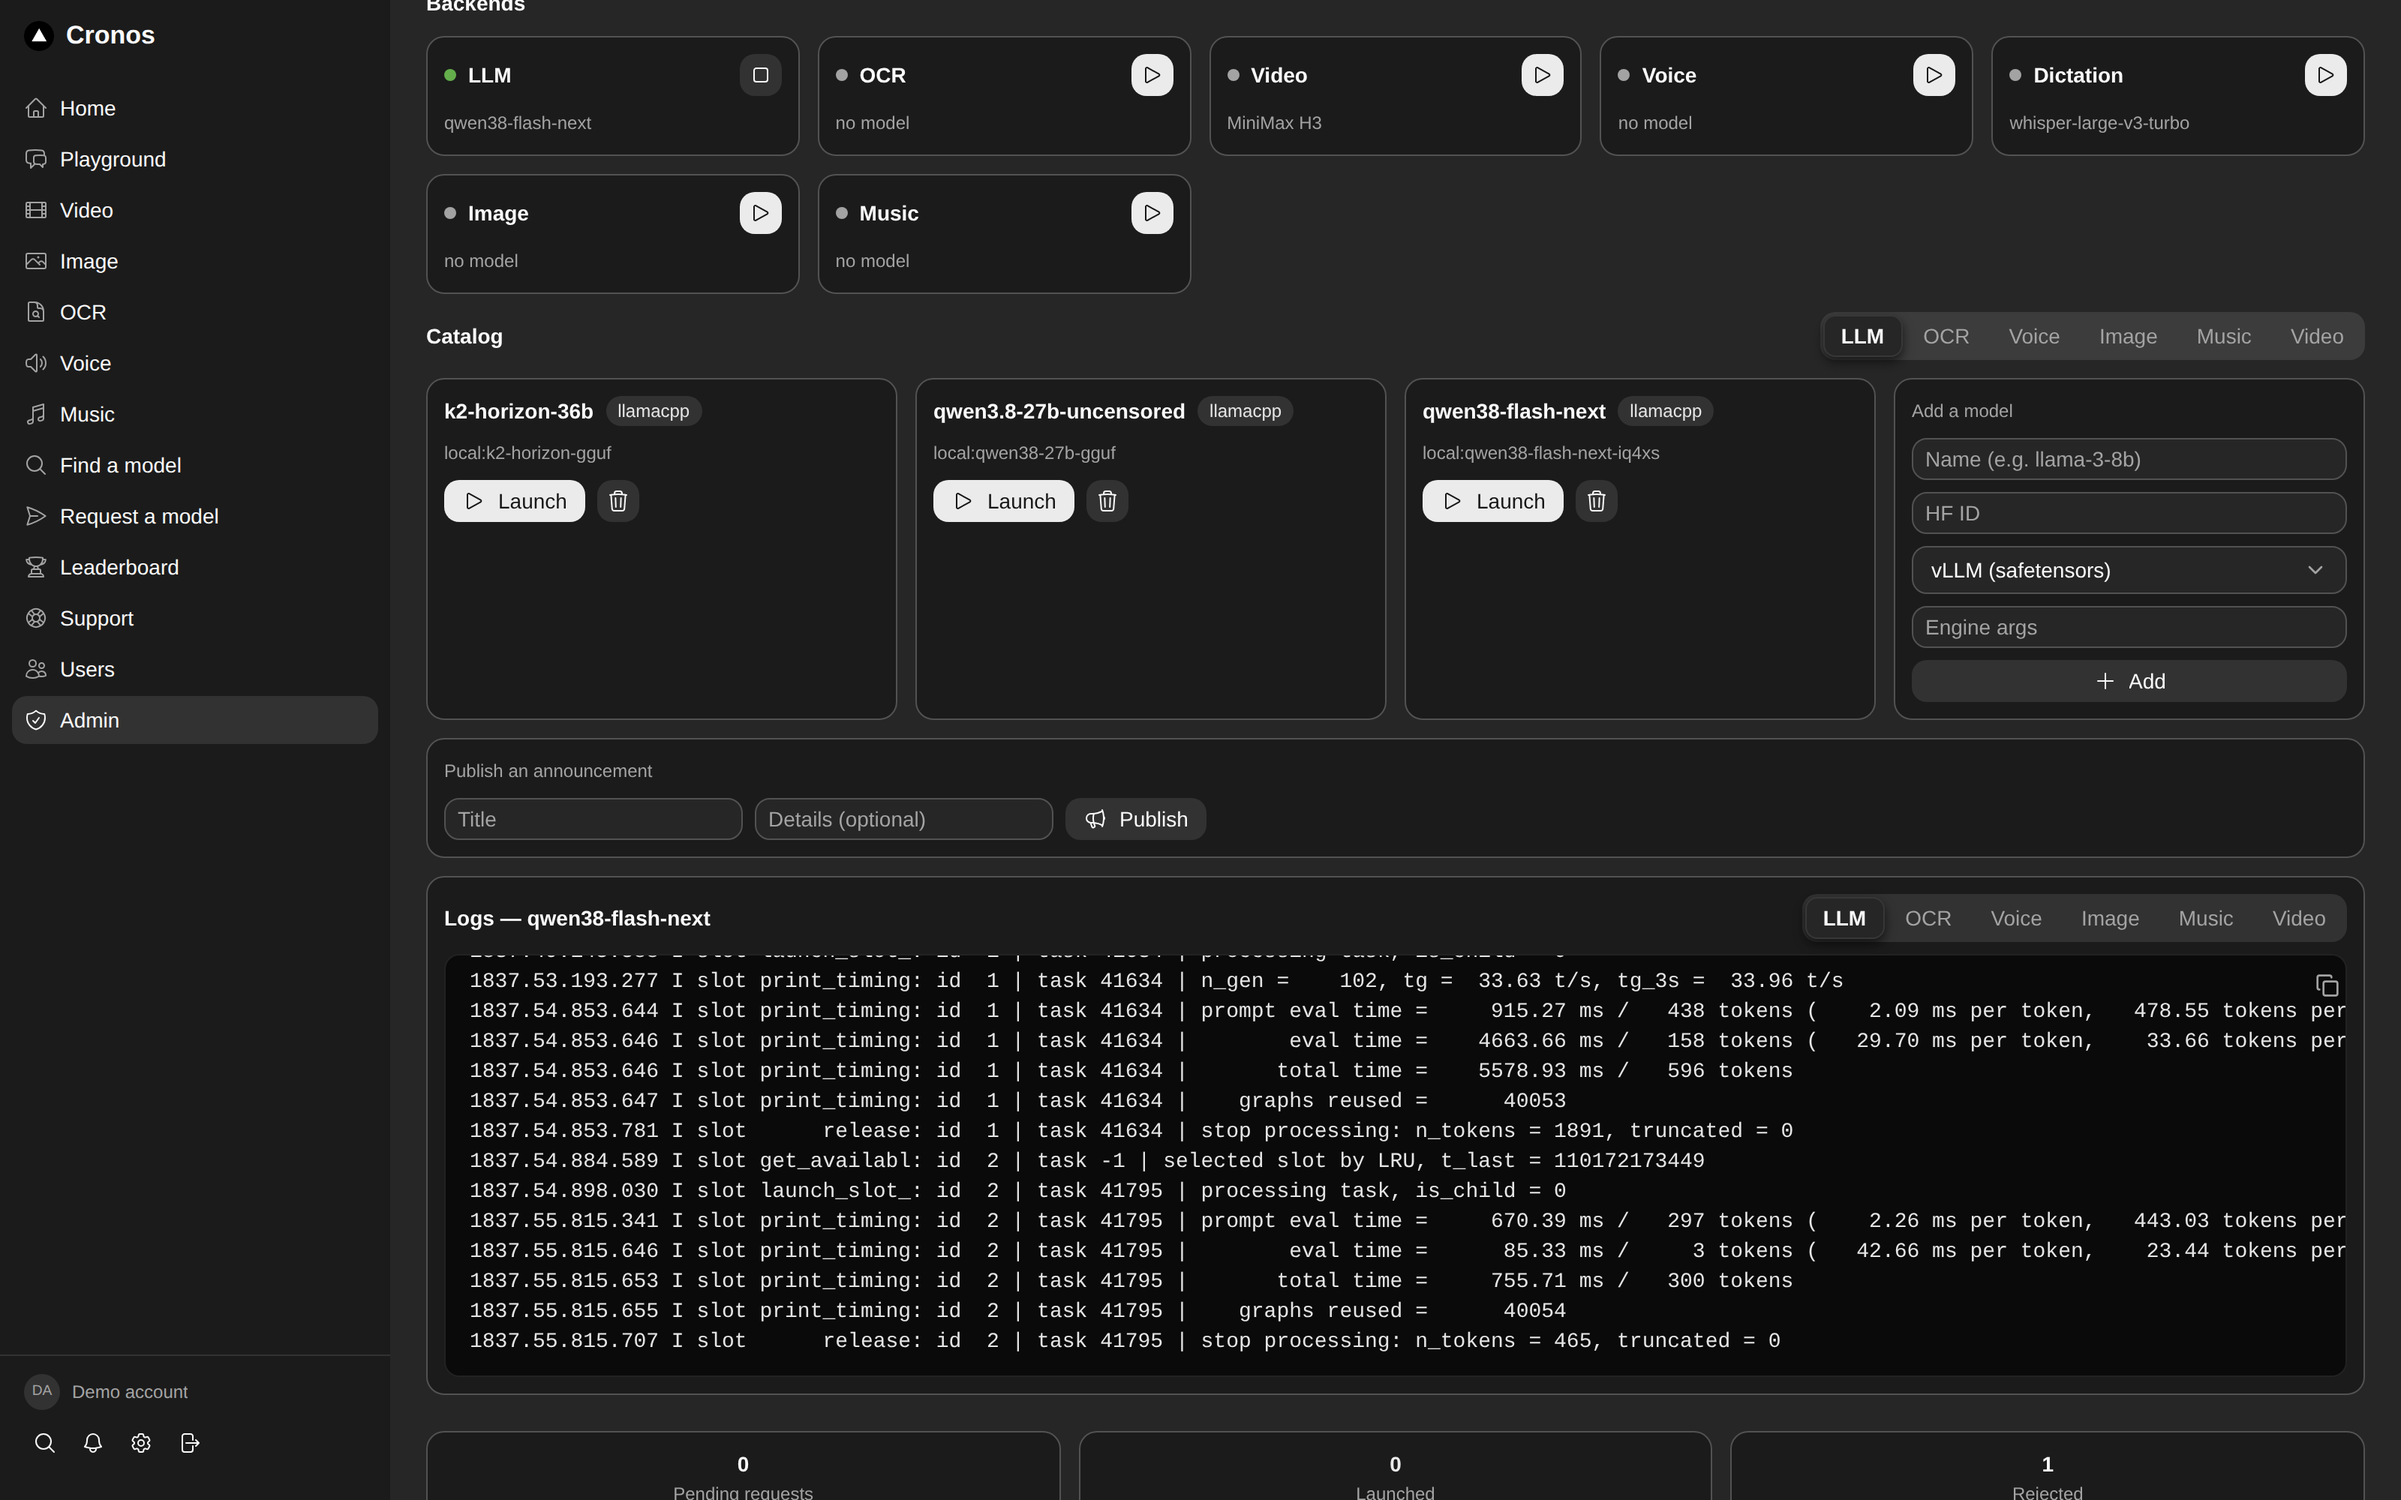
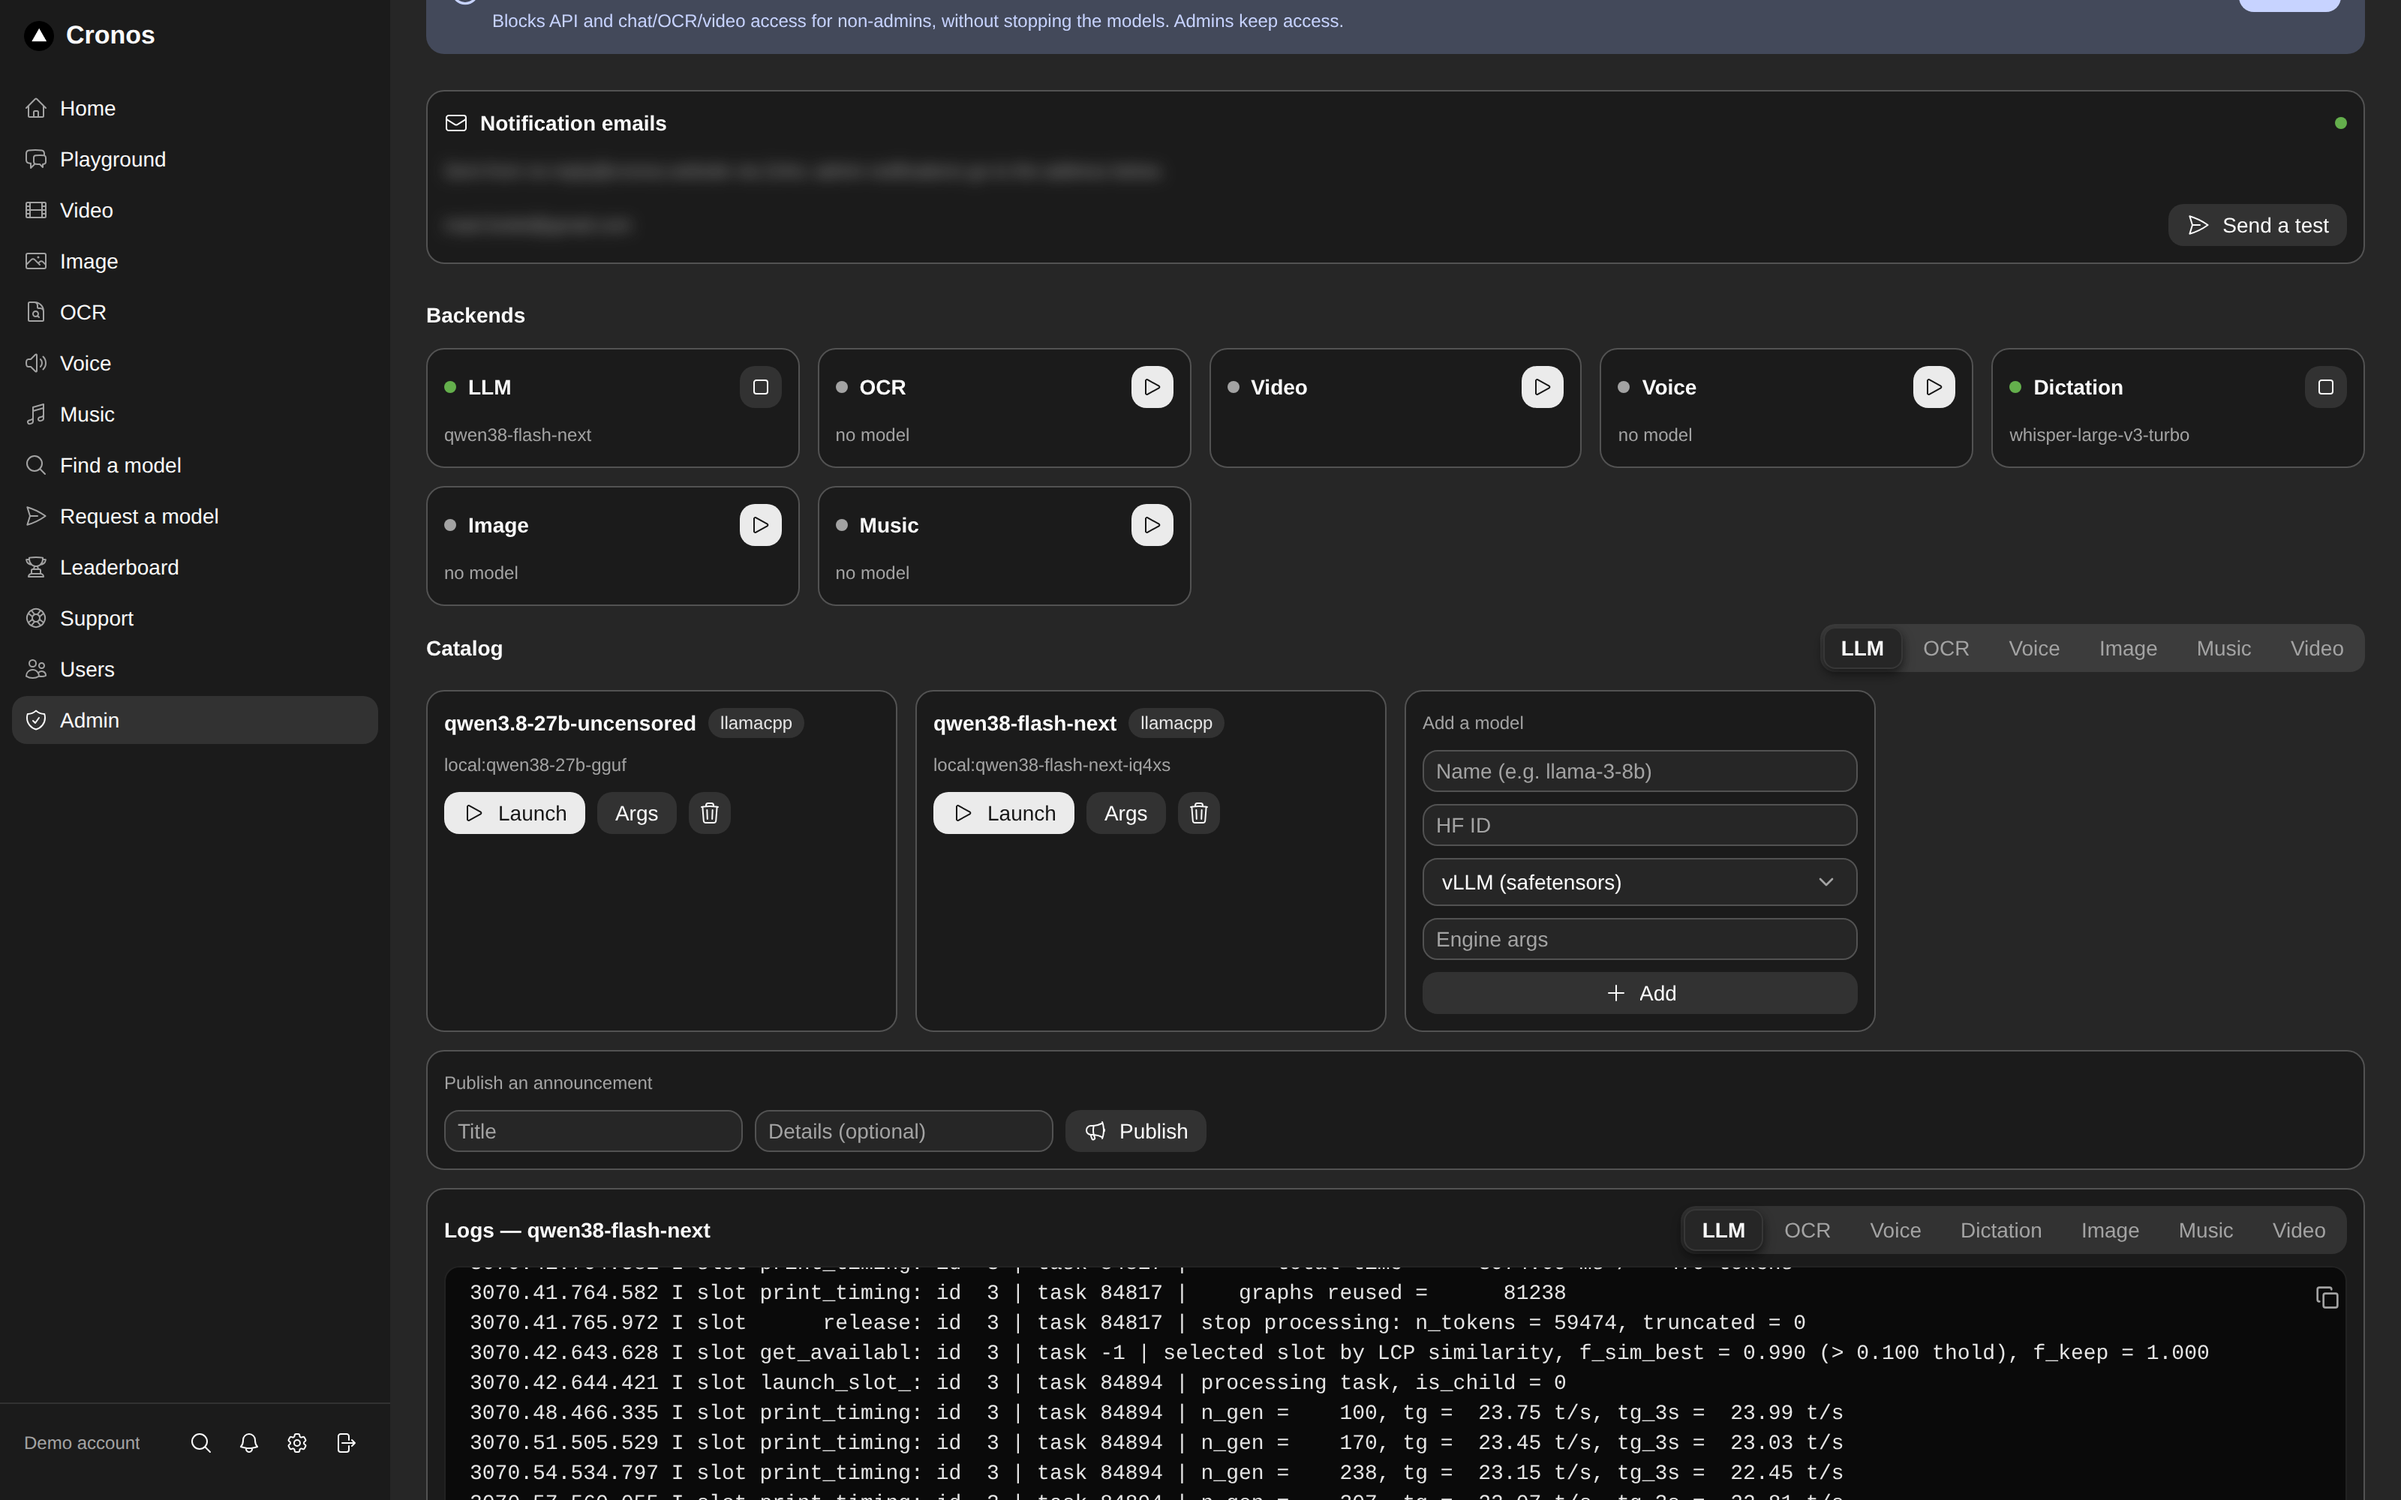
docs: reshoot the Admin screenshot for the platform status card
The card sits at the top of the page, so the published image no longer showed what
the page looks like. Recaptured with the dedicated demo account (English, dark
theme, 3200×2000) and re-verified by OCR — size, theme, expected content and
privacy, including the shape of the new figures. The caption follows the image.

diff --git a/README.md b/README.md
@@ -508,7 +508,7 @@ is checked too.
 |---|---|
 | ![Find a model](assets/search.png) | ![Request a model](assets/request.png) |
 
-![Admin — the unified backend row, a type-filtered catalog, and live model logs](assets/admin.png)
+![Admin — the platform status card, the unified backend row, and live model logs](assets/admin.png)
 
 > **Refreshing these screenshots** — nothing here is hand-made: the whole set is
 > captured by `scripts/screenshots.py`, in **English** and in the **dark theme**,
